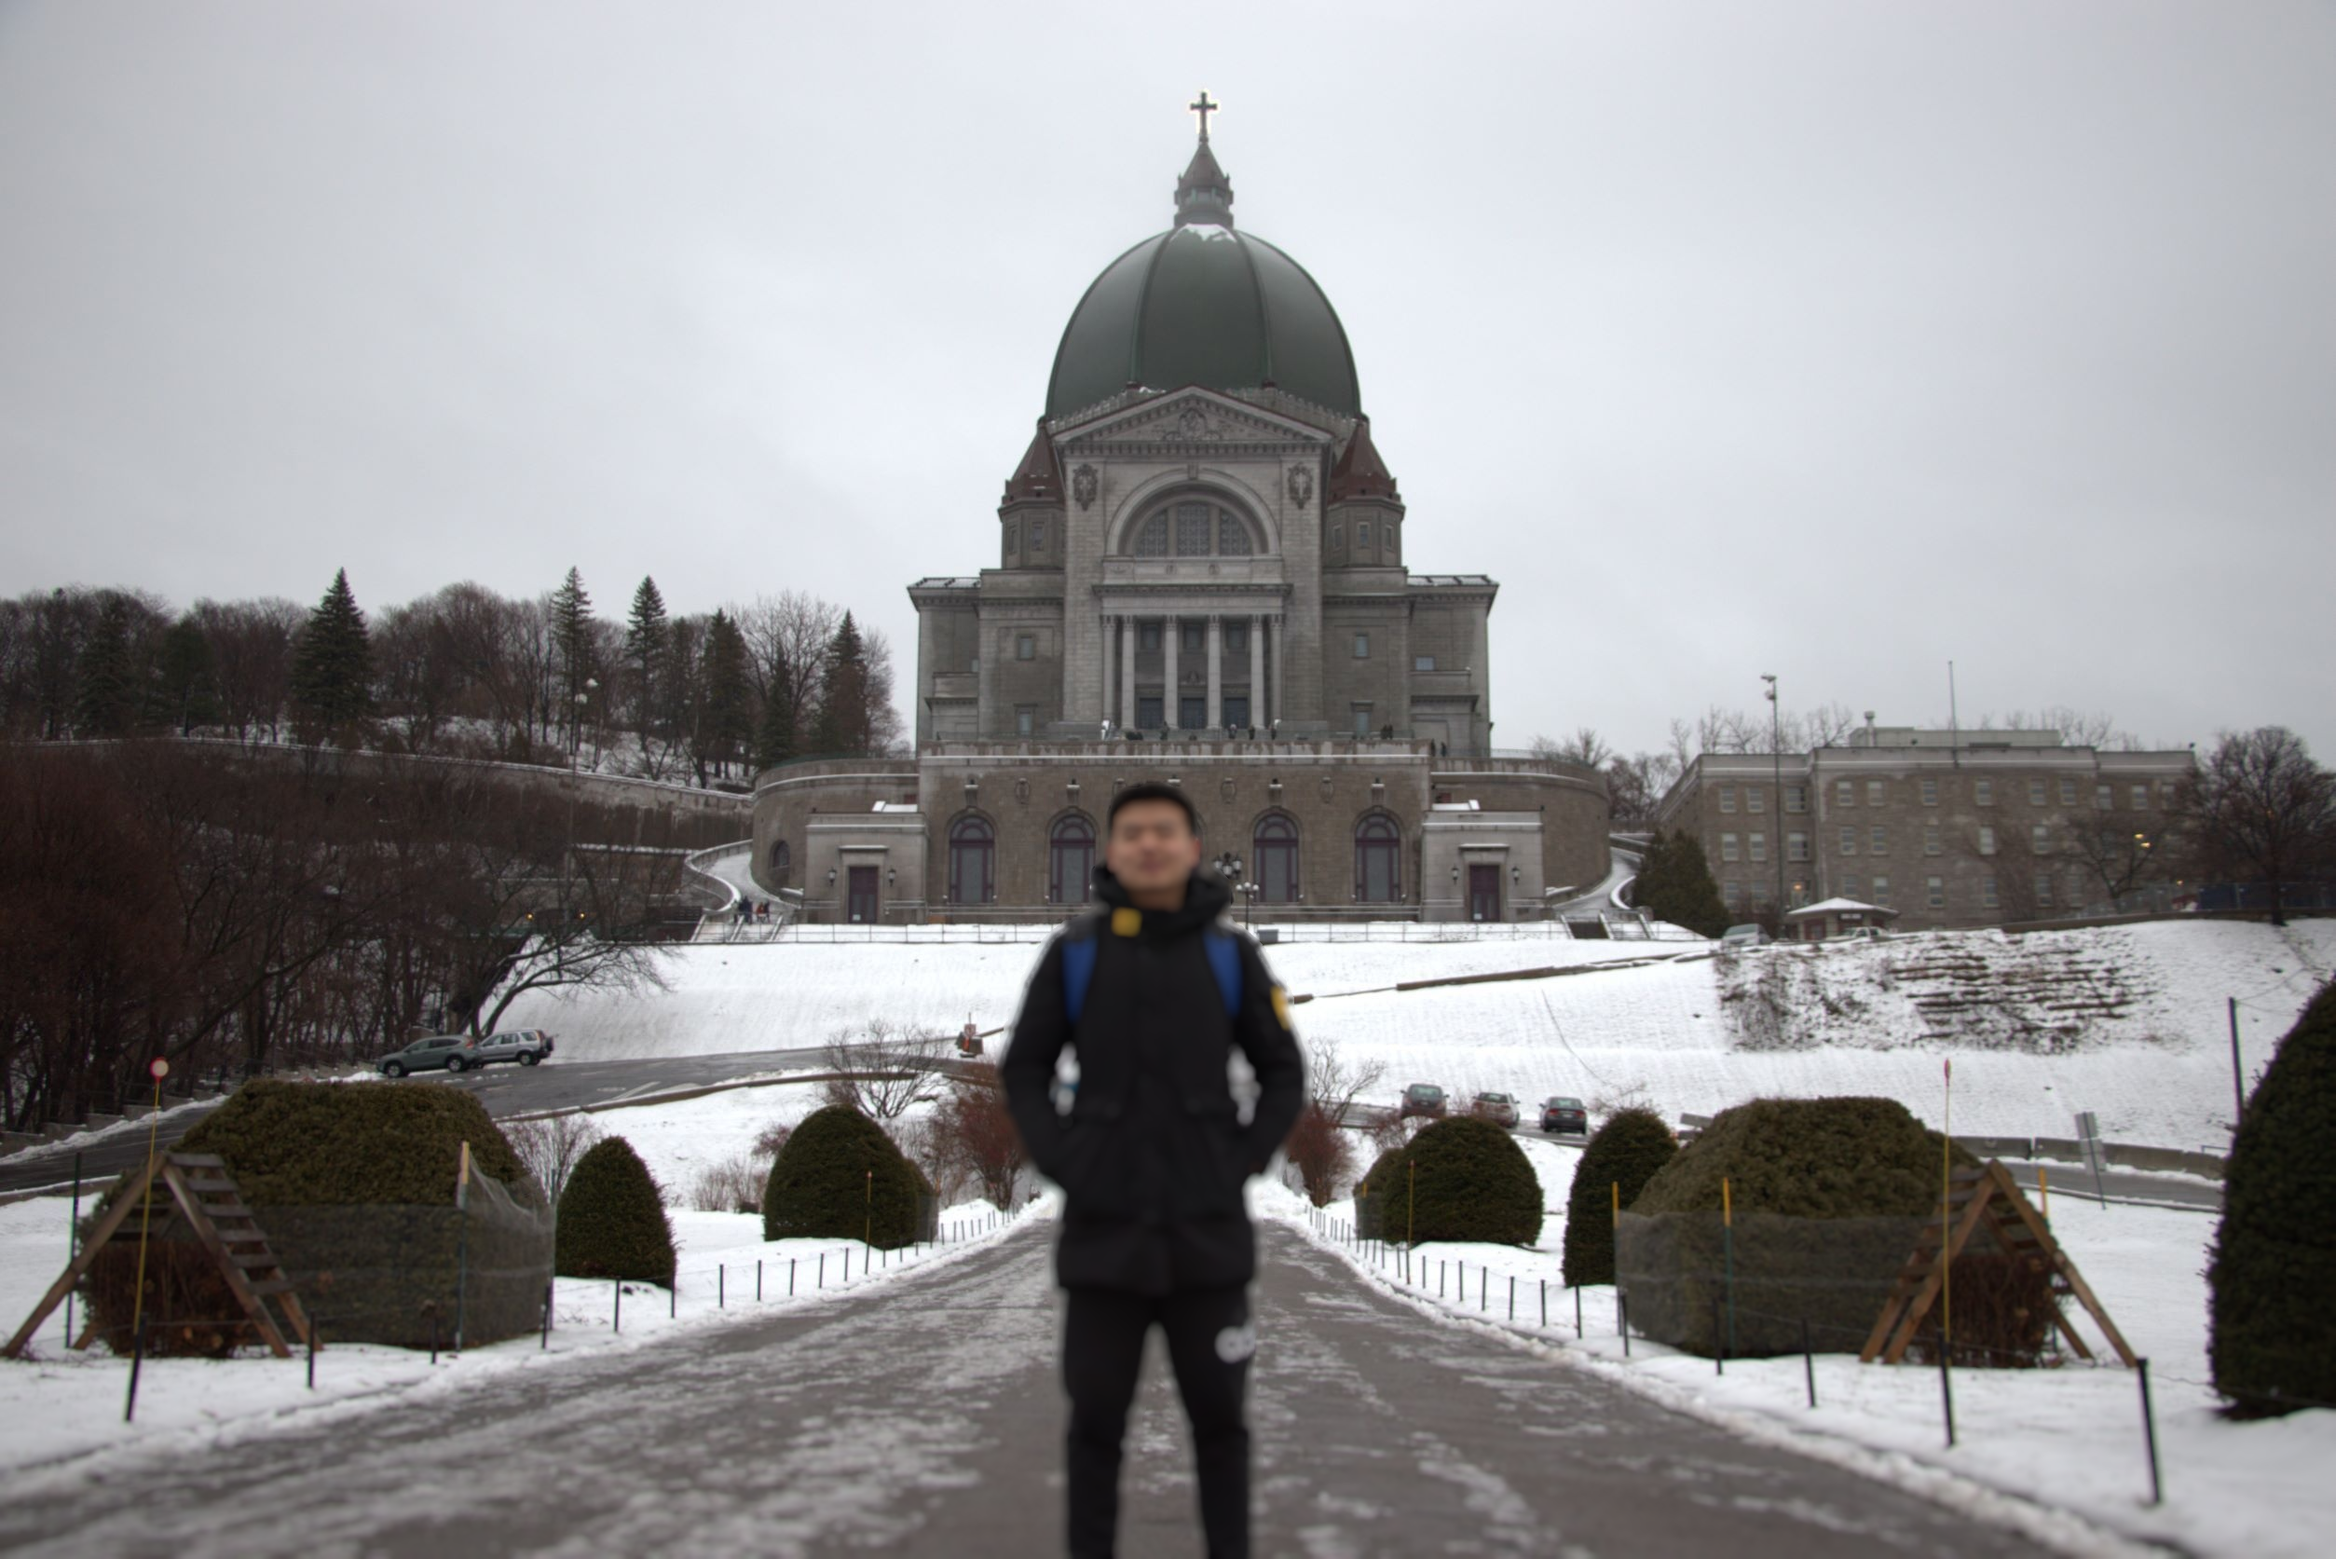
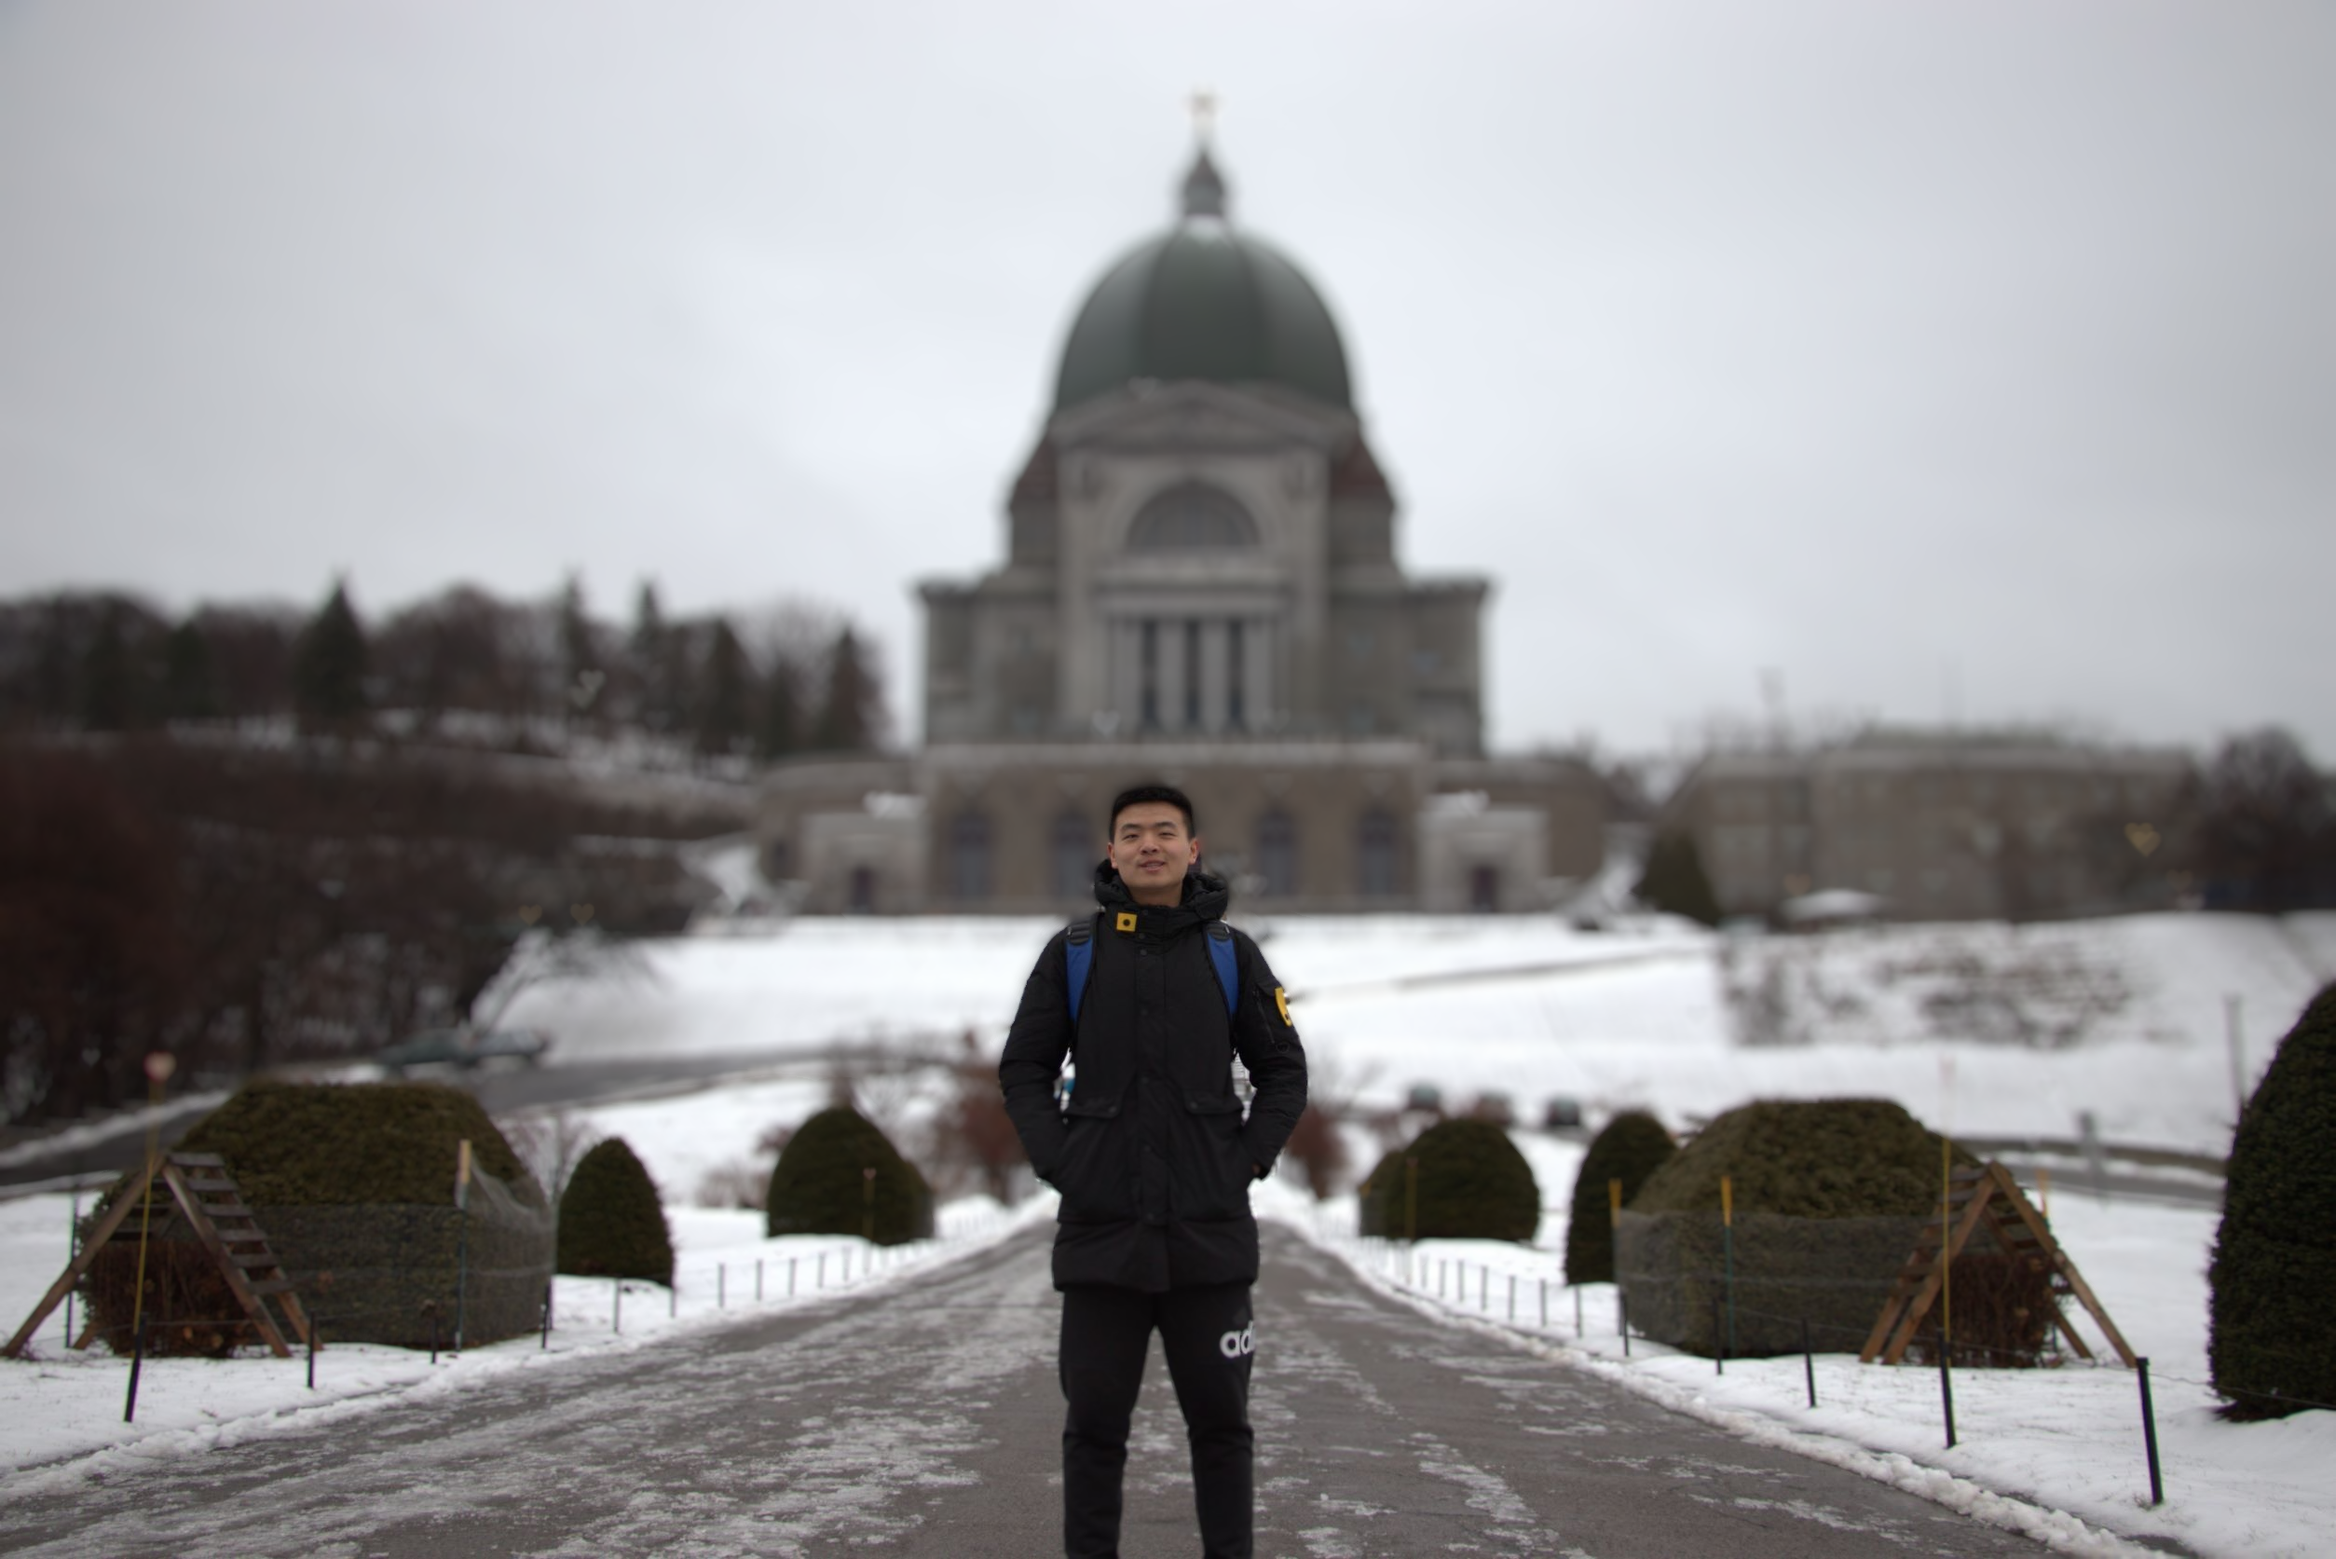
fixed and improved bokeh_rendering_approx (fast)

diff --git a/main.cpp b/main.cpp
@@ -20,7 +20,6 @@
 using namespace std;
 using namespace cv;
 
-static tbb::spin_rw_mutex blur_m, w_m;
 
 Mat create_circular_mask( int c , double r = 0) {
     int center = int( double(c) / 2 );
@@ -77,10 +76,12 @@ double compute_coc( double o_depth, double f_depth, double dof, double weight = 
 }
 
 Mat bokeh_rendering( string input_path, string depth_map_path, double f_depth, double weight_coc = 0.05, double weight_dof = 1, string kernel_path = "" ) {
+
+    tbb::spin_rw_mutex blur_m, w_m;
+
     Mat depth_map = imread( depth_map_path, IMREAD_GRAYSCALE );
     depth_map.convertTo(depth_map, CV_64F);
     depth_map = 1 - (depth_map / 255.);
-//    boxFilter(depth_map, depth_map, -1, Size(5,5));
 
     cv::Scalar mean, stddev;
     cv::meanStdDev(depth_map, mean, stddev);
@@ -98,6 +99,8 @@ Mat bokeh_rendering( string input_path, string depth_map_path, double f_depth, d
     Mat w = Mat(cv::Size(img.size[1], img.size[0]), CV_64FC3, Scalar(1. ,1., 1.));
 
     double DoF = compute_dof(f_depth, weight_dof);
+
+
 
     tbb::parallel_for(0, img.rows, [&](int i){
         tbb::parallel_for(0, img.cols, [&](int j){
@@ -164,6 +167,7 @@ Mat bokeh_rendering_approx( string input_path, string depth_map_path, double f_d
     depth_map.convertTo(depth_map, CV_64F);
     depth_map = 1 - (depth_map / 255.);
 
+    tbb::spin_rw_mutex w_m;
 
     Mat kernel = imread(kernel_path,IMREAD_GRAYSCALE);
     cv::flip(kernel, kernel, -1);
@@ -173,7 +177,7 @@ Mat bokeh_rendering_approx( string input_path, string depth_map_path, double f_d
 
     cv::pow(img, bokeh_level, img);
 
-    std::vector<Mat> src(level), result(level), level_mask(level);
+    std::vector<Mat> src(level), result(level), level_mask(level) ;
     Mat aggregate_mask;
 
     double DoF = compute_dof(f_depth, weight_dof);
@@ -217,33 +221,26 @@ Mat bokeh_rendering_approx( string input_path, string depth_map_path, double f_d
             p_coc += 1;
         }
 
-
         Mat k;
-
         resize(kernel,k,Size(p_coc, p_coc),0,0,INTER_LINEAR);
         k.convertTo(k, CV_64F);
-
         k = k / cv::sum(k  )[0] ;
 
         Mat inter_result;
-
         cv::filter2D(src.at(i), inter_result, -1, k);
 
         Mat masked_img_1 = img.clone();
-
         Mat masked_img;
         masked_img_1.convertTo(masked_img_1,CV_64FC3, 1, 10);
         masked_img_1.copyTo(masked_img, mask);
-
 
         Mat masked_blur_img;
         cv::filter2D(masked_img, masked_blur_img, -1, k);
 
         Mat blur_edge_mask;
-        cv::inRange(masked_blur_img, Scalar(0.001, 0.001, 0.001), Scalar(DBL_MAX, DBL_MAX, DBL_MAX), blur_edge_mask );
+        cv::inRange(masked_blur_img, Scalar(0.0001, 0.0001, 0.0001), Scalar(DBL_MAX, DBL_MAX, DBL_MAX), blur_edge_mask );
 
         tbb::spin_rw_mutex blur_edge_m;
-
         tbb::parallel_for(0, i, [&](int j) {
 
             double j_lbound, j_hbound, j_depth;
@@ -256,40 +253,26 @@ Mat bokeh_rendering_approx( string input_path, string depth_map_path, double f_d
                 cv::bitwise_not(level_mask.at(j), not_mask_j);
 
                 blur_edge_m.lock();
-
                 cv::bitwise_and(  not_mask_j, blur_edge_mask, blur_edge_mask );
-
                 blur_edge_m.unlock();
             }
-
 
         });
 
         inter_result.copyTo(result.at(i), blur_edge_mask);
 
-        Mat mask_3d;
-        Mat in[] = {mask, mask, mask};
-        merge(in, 3, mask_3d);
-        mask_3d.convertTo(mask_3d, CV_8UC3);
-
-        Mat blur_edge_mask_3d;
-        Mat in2[] = {blur_edge_mask, blur_edge_mask, blur_edge_mask};
-        merge(in2, 3, blur_edge_mask_3d);
-        blur_edge_mask_3d.convertTo(blur_edge_mask_3d, CV_8UC3);
-
         Mat outer_mask;
+        Mat not_mask;
+        cv::bitwise_not(mask, not_mask);
+        cv::bitwise_and(  blur_edge_mask, not_mask, outer_mask );
 
-
-        Mat not_mask_3d;
-        cv::bitwise_not(mask_3d, not_mask_3d);
-
-        cv::bitwise_and(  blur_edge_mask_3d, not_mask_3d, outer_mask );
-
-        outer_mask.convertTo(outer_mask, CV_64FC3, 1./255.);
-
+        Mat outer_mask_3d;
+        Mat in[] = {outer_mask, outer_mask, outer_mask};
+        merge(in, 3, outer_mask_3d);
+        outer_mask_3d.convertTo(outer_mask_3d, CV_64F, 1./255.);
 
         w_m.lock();
-        w += outer_mask;
+        w += outer_mask_3d;
         w_m.unlock();
 
 
@@ -302,6 +285,7 @@ Mat bokeh_rendering_approx( string input_path, string depth_map_path, double f_d
     for( int i = 1; i < level; i ++  ) {
 
         final_result += result.at(i);
+
     }
 
     final_result = final_result / w;
@@ -319,13 +303,11 @@ int main() {
 
     clock_t start,end;
     start=clock();
-    Mat result = bokeh_rendering_approx("H:\\ECE496\\blur\\Bokeh_from_depth\\people.jpg", "H:\\ECE496\\blur\\Bokeh_from_depth\\depth_people.png", 0.9, 0.02 ,1, "H:\\ECE496\\blur\\Bokeh_from_depth\\kernel_3.png", 24);
+    Mat result = bokeh_rendering_approx("H:\\ECE496\\blur\\Bokeh_from_depth\\people.jpg", "H:\\ECE496\\blur\\Bokeh_from_depth\\depth_people.png", 0.2, 0.02 ,2, "H:\\ECE496\\blur\\Bokeh_from_depth\\kernel_2.png", 12);
     end=clock();
     cout<<"Time spent: "<<(double)(end-start)/CLOCKS_PER_SEC<<endl;
 
     imwrite("H:\\ECE496\\blur\\Bokeh_from_depth\\result.png", result);
-
-
 
     return 0;
 }
